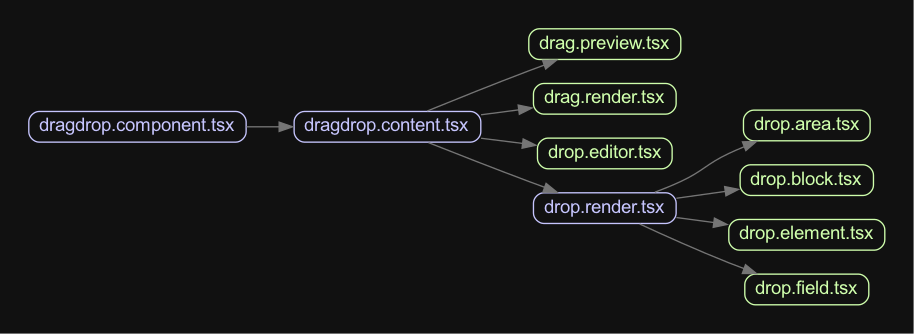
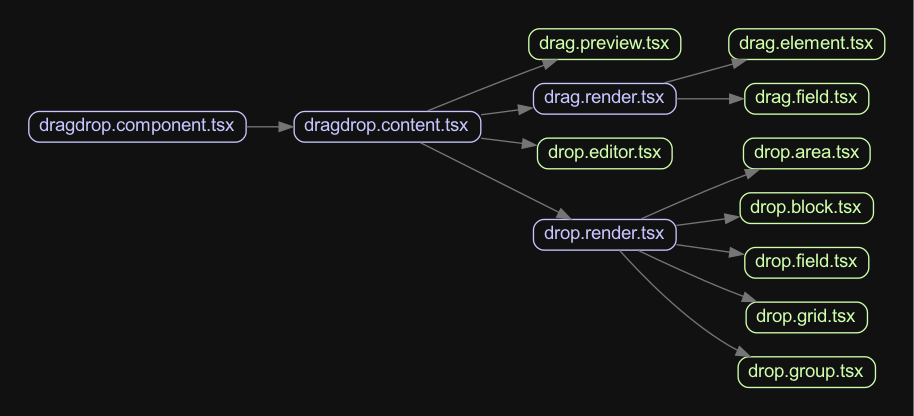
clean up type

Changed region(s): [[0.0306, 0.0599, 0.9803, 0.9581], [0.0, 0.988, 1.0, 1.0], [0.5208, 0.479, 0.5514, 0.509]]

diff --git a/apps/react/src/components_v1/form/form.render.tsx b/apps/react/src/components_v1/form/form.render.tsx
@@ -5,7 +5,6 @@ import { ContextValue } from "./contexts";
 import { FormSection } from "./form.section";
 import { FormBlock } from "./form.block";
 import { FormField } from "./form.field";
-import { FormElement } from "./form.element";
 import { FormGroup } from "./form.group";
 import { FormGrid } from "./form.grid";
 
@@ -13,45 +12,39 @@ export function FormRender() {
   const context = useFormContext() as ContextValue;
   return (
     <>
-      {render(groupDataForRender(context.form.data))}
+      {render(groupDataForRender(context.form.data), context)}
     </>
   );
 }
 
-function render(data: FormFieldType[]) {
+function render(data: FormFieldType[], context?: ContextValue) {
 
   return data?.map((item) => {
     const key = item.id || item.name;
 
-    switch(item.dataType) {
+    switch(item.type) {
       case 'section': {
         return (
-          <FormSection key={key} {...item}>
-            {render(item.data as FormFieldType[])}
+          <FormSection key={key} {...item} context={context}>
+            {render(item.data as FormFieldType[], context)}
           </FormSection>
         );
       }
       case 'block': {
         return (
-          <FormBlock key={key} {...item}>
-            {render(item.data as FormFieldType[])}
+          <FormBlock key={key} {...item} context={context}>
+            {render(item.data as FormFieldType[], context)}
           </FormBlock>
         );
       }
       case 'group': {
-        return <FormGroup key={key} {...item} />
+        return <FormGroup key={key} {...item} context={context} />
       }
       case 'grid': {
-        return <FormGrid key={key} {...item} />
-      }
-      case 'field': {
-        return <FormField key={key} {...item} />
-      }
-      case 'element': {
-        return <FormElement key={key} {...item} />
+        return <FormGrid key={key} {...item} context={context} />
       }
       default:
-        return null;
+        <FormField key={key} {...item} context={context} />
     }
   }) || null;
 }

diff --git a/apps/react/src/pages/dashboard/internal/overview.dashboard.tsx b/apps/react/src/pages/dashboard/internal/overview.dashboard.tsx
@@ -1,5 +1,5 @@
 import { DragDrop } from "@/components_v1/dragdrop/dragdrop.component";
-import { Form, FormResult } from "@/components_v1/form";
+import { Form, FormField, FormResult } from "@/components_v1/form";
 
 function Overview() {
 
@@ -10,20 +10,15 @@ function Overview() {
   return <div>
     Overview
 
-    <Form data={[{
-      name: 'email',
-      type: 'text',
-      dataType: 'field'
-    }]} onSubmit={handleClick}>
-
+    <Form onSubmit={handleClick}>
+      <FormField name='email' type='text' />
     </Form>
 
     <DragDrop data={[
       {
         id: 'form',
         name: 'area',
-        type: 'div',
-        dataType: 'area',
+        type: 'area',
         data: [],
         parentId: null,
         position: 0
@@ -33,10 +28,37 @@ function Overview() {
         name: 'email',
         title: 'Email',
         type: 'email',
-        dataType: 'field',
         data: [],
         parentId: 'form',
         position: 1
+      },
+      {
+        id: 2,
+        name: 'name',
+        title: 'Name',
+        type: 'group',
+        data: [
+          {
+            id: 3,
+            name: 'firstName',
+            title: 'First Name',
+            type: 'text',
+            data: null,
+            parentId: 2,
+            position: 3
+          },
+          {
+            id: 4,
+            name: 'lastName',
+            title: 'Last Name',
+            type: 'text',
+            data: null,
+            parentId: 2,
+            position: 4
+          },
+        ],
+        parentId: 'form',
+        position: 2
       },
     ]} />
   </div>

diff --git a/apps/react/src/components_v1/dragdrop/drop.render.tsx b/apps/react/src/components_v1/dragdrop/drop.render.tsx
@@ -7,7 +7,8 @@ import { DndField } from "./types";
 import { DropBlock } from "./drop.block";
 import { DropField } from "./drop.field";
 import { DropArea } from "./drop.area";
-import { DropElement } from "./drop.element";
+import { DropGrid } from "./drop.grid";
+import { DropGroup } from "./drop.group";
 
 export function DropRender() {
   const context = useDragDropContext() as ContextValue;
@@ -16,8 +17,7 @@ export function DropRender() {
     return {
       id: 'root-area',
       name: 'area',
-      type: 'div',
-      dataType: 'area',
+      type: 'area',
       data: groupDataForRender(context.state.data),
     }
   }, [context.state.data]);
@@ -37,7 +37,7 @@ function render(drop: DndField, context: ContextValue) {
   return data?.map((item) => {
     const key = item.id || item.name;
 
-    switch(item.dataType) {
+    switch(item.type) {
       case 'area': {
         return (
           <DropArea key={key} {...item} context={context}>
@@ -53,14 +53,12 @@ function render(drop: DndField, context: ContextValue) {
           </DropBlock>
         );
       }
-      case 'field': {
-        return <DropField key={key} {...item} context={context} />
-      }
-      case 'element': {
-        return <DropElement key={key} {...item} context={context} />
-      }
+      case 'grid':
+        return <DropGrid key={key} {...item} context={context} />
+      case 'group':
+        return <DropGroup key={key} {...item} context={context} />
       default:
-        return null;
+        return <DropField key={key} {...item} context={context} />
     }
   }) || null;
 }

diff --git a/apps/react/src/components_v1/types/common.type.ts b/apps/react/src/components_v1/types/common.type.ts
@@ -6,12 +6,16 @@ export enum FieldType {
   DATE = 'date',
   CHECKBOX = 'checkbox',
   RADIO = 'radio',
-  BUTTON = 'button',
+  SELECT = 'select',
+  TEXTAREA = 'textarea'
 }
 
 export enum ElementType {
-  DIV = 'div',
   BUTTON = 'button',
+  LINK = 'link',
+  PARAGRAPH = 'paragraph',
+  IMAGE = 'image',
+
 }
 
 export enum DataType {
@@ -19,10 +23,27 @@ export enum DataType {
   SECTION = 'section',
   BLOCK = 'block',
   HOLDER = 'holder',
+
   LIST = 'list',
   ITEM = 'item',
-  ELEMENT = 'element',
-  FIELD = 'field',
+
+  //ELEMENT = 'element',
+  BUTTON = 'button',
+  LINK = 'link',
+  PARAGRAPH = 'paragraph',
+  IMAGE = 'image',
+
+  //FIELD = 'field',
+  TEXT = 'text',
+  NUMBER = 'number',
+  PASSWORD = 'password',
+  EMAIL = 'email',
+  DATE = 'date',
+  CHECKBOX = 'checkbox',
+  RADIO = 'radio',
+  SELECT = 'select',
+  TEXTAREA = 'textarea',
+
   GROUP = 'group',
   GRID = 'grid',
 }
@@ -30,8 +51,8 @@ export enum DataType {
 interface BaseEntity {
   id?: number | string | null;
   name: string;
-  type: FieldType | ElementType | string;
-  dataType: DataType | string;
+  type: DataType | string;
+  //dataType: DataType | string;
   value?: string | null;
 }
 

diff --git a/apps/react/src/components_v1/dragdrop/drag.render.tsx b/apps/react/src/components_v1/dragdrop/drag.render.tsx
@@ -1,20 +1,24 @@
+
 import { ContextValue } from "./contexts";
 import { useDragDropContext } from "./hooks";
+import { DragField } from "./drag.field";
+import { DragElement } from "./drag.element";
 
 export function DragRender() {
-  const {options} = useDragDropContext() as ContextValue;
-  
+  const { options } = useDragDropContext() as ContextValue;
+
   return (
     <div>
       {
-        Object.keys(options.drags || {}).map((key) => (
+        options.drags ? Object.keys(options.drags).map((key) => (
           <div key={key}>
-            {key}
-            {/* {options.drags[key].map((element) => (
-              <></>
-            ))} */}
+            {
+              options.drags[key]?.map((drag) => {
+                return key === 'element' ? <DragElement {...drag} context={context}/> : <DragField {...drag} context={context}/>;
+              })
+            }
           </div>
-        ))
+        )) : <div>No drags</div>
       }
     </div>
   );

diff --git a/apps/nest/apps/api/src/builder/form/form.controller.ts b/apps/nest/apps/api/src/builder/form/form.controller.ts
@@ -36,7 +36,7 @@ export class FormController {
           {
             id: 'k-9c37c',
             name: 'block',
-            type: 'div',
+            type: 'block',
             dataType: 'block',
             data: [],
             parentId: null,
@@ -146,7 +146,7 @@ export class FormController {
           {
             id: 'x-69feb',
             name: 'block',
-            type: 'div',
+            type: 'block',
             dataType: 'block',
             data: [],
             parentId: null,
@@ -165,7 +165,7 @@ export class FormController {
           {
             id: 'b-9d4aa',
             name: 'block',
-            type: 'div',
+            type: 'block',
             dataType: 'block',
             data: [],
             parentId: null,

diff --git a/apps/react/src/components_v1/form/form.group.tsx b/apps/react/src/components_v1/form/form.group.tsx
@@ -1,10 +1,13 @@
 import { PropsWithChildren } from "react";
 import { FormFieldType } from "./types";
 import { FormField } from "./form.field";
+import { ContextValue } from "./contexts";
 
-type Props = PropsWithChildren<FormFieldType>;
+type GroupProps = PropsWithChildren<FormFieldType & {
+  context?: ContextValue
+}>;
 
-export function FormGroup({data = [], children}: Props) {
+export function FormGroup({data = [], children}: GroupProps) {
   return <div>
     {
       children || data?.map(field => {

diff --git a/apps/react/src/utils/group-data-for-render.util.ts b/apps/react/src/utils/group-data-for-render.util.ts
@@ -4,7 +4,7 @@ export const groupDataForRender = <T extends Item>(data: T[]) => {
   const cloneData = structuredClone(data);
   const list: T[] = [];
 
-  const condition = (item: T) => ['area', 'section', 'block', 'list'].includes(item.dataType);
+  const condition = (item: T) => ['area', 'section', 'block', 'list', 'placeholder'].includes(item.type);
 
   cloneData.forEach((item: T) => {
     return mapToParent<T>(list as T[], item, condition);

diff --git a/apps/react/src/components_v1/form/form.section.tsx b/apps/react/src/components_v1/form/form.section.tsx
@@ -1,8 +1,11 @@
 import { PropsWithChildren } from "react";
 import { FormFieldType } from "./types";
+import { ContextValue } from "./contexts";
 
-type Props = PropsWithChildren<FormFieldType>;
+type SectionProps = PropsWithChildren<FormFieldType & {
+  context?: ContextValue
+}>;
 
-export function FormSection({children}: Props) {
+export function FormSection({children}: SectionProps) {
   return <div>{children}</div>
 }

diff --git a/apps/react/src/components_v1/form/form.block.tsx b/apps/react/src/components_v1/form/form.block.tsx
@@ -1,8 +1,11 @@
 import { PropsWithChildren } from "react";
 import { FormFieldType } from "./types";
+import { ContextValue } from "./contexts";
 
-type Props = PropsWithChildren<FormFieldType>;
+type BlockProps = PropsWithChildren<FormFieldType & {
+  context?: ContextValue
+}>;
 
-export function FormBlock({children}: Props) {
+export function FormBlock({children}: BlockProps) {
   return <div>{children}</div>
 }

diff --git a/apps/react/src/components_v1/form/form.field.tsx b/apps/react/src/components_v1/form/form.field.tsx
@@ -1,4 +1,14 @@
-export function FormField() {
+import { ContextValue } from "./contexts";
+import { useFormContext } from "./hooks";
+import { FormFieldType } from "./types";
+
+type FieldProps = FormFieldType & {
+  context?: ContextValue
+};
+
+export function FormField({context, ...props}: FieldProps) {
+  const ctx = context || useFormContext();
+  console.log(ctx);
   return (
     <>field</>
   )

diff --git a/apps/react/src/components_v1/dragdrop/drop.group.tsx b/apps/react/src/components_v1/dragdrop/drop.group.tsx
@@ -1,0 +1,17 @@
+import { ContextValue } from "./contexts";
+import { DndField } from "./types";
+
+interface IProps extends DndField {
+  context: ContextValue;
+};
+
+export function DropGroup({context, ...group}: IProps) {
+
+  return <div>
+    {
+      group.data?.map(field => {
+        return <div key={field.name}>{field.name}</div>
+      })
+    }
+  </div>
+}
